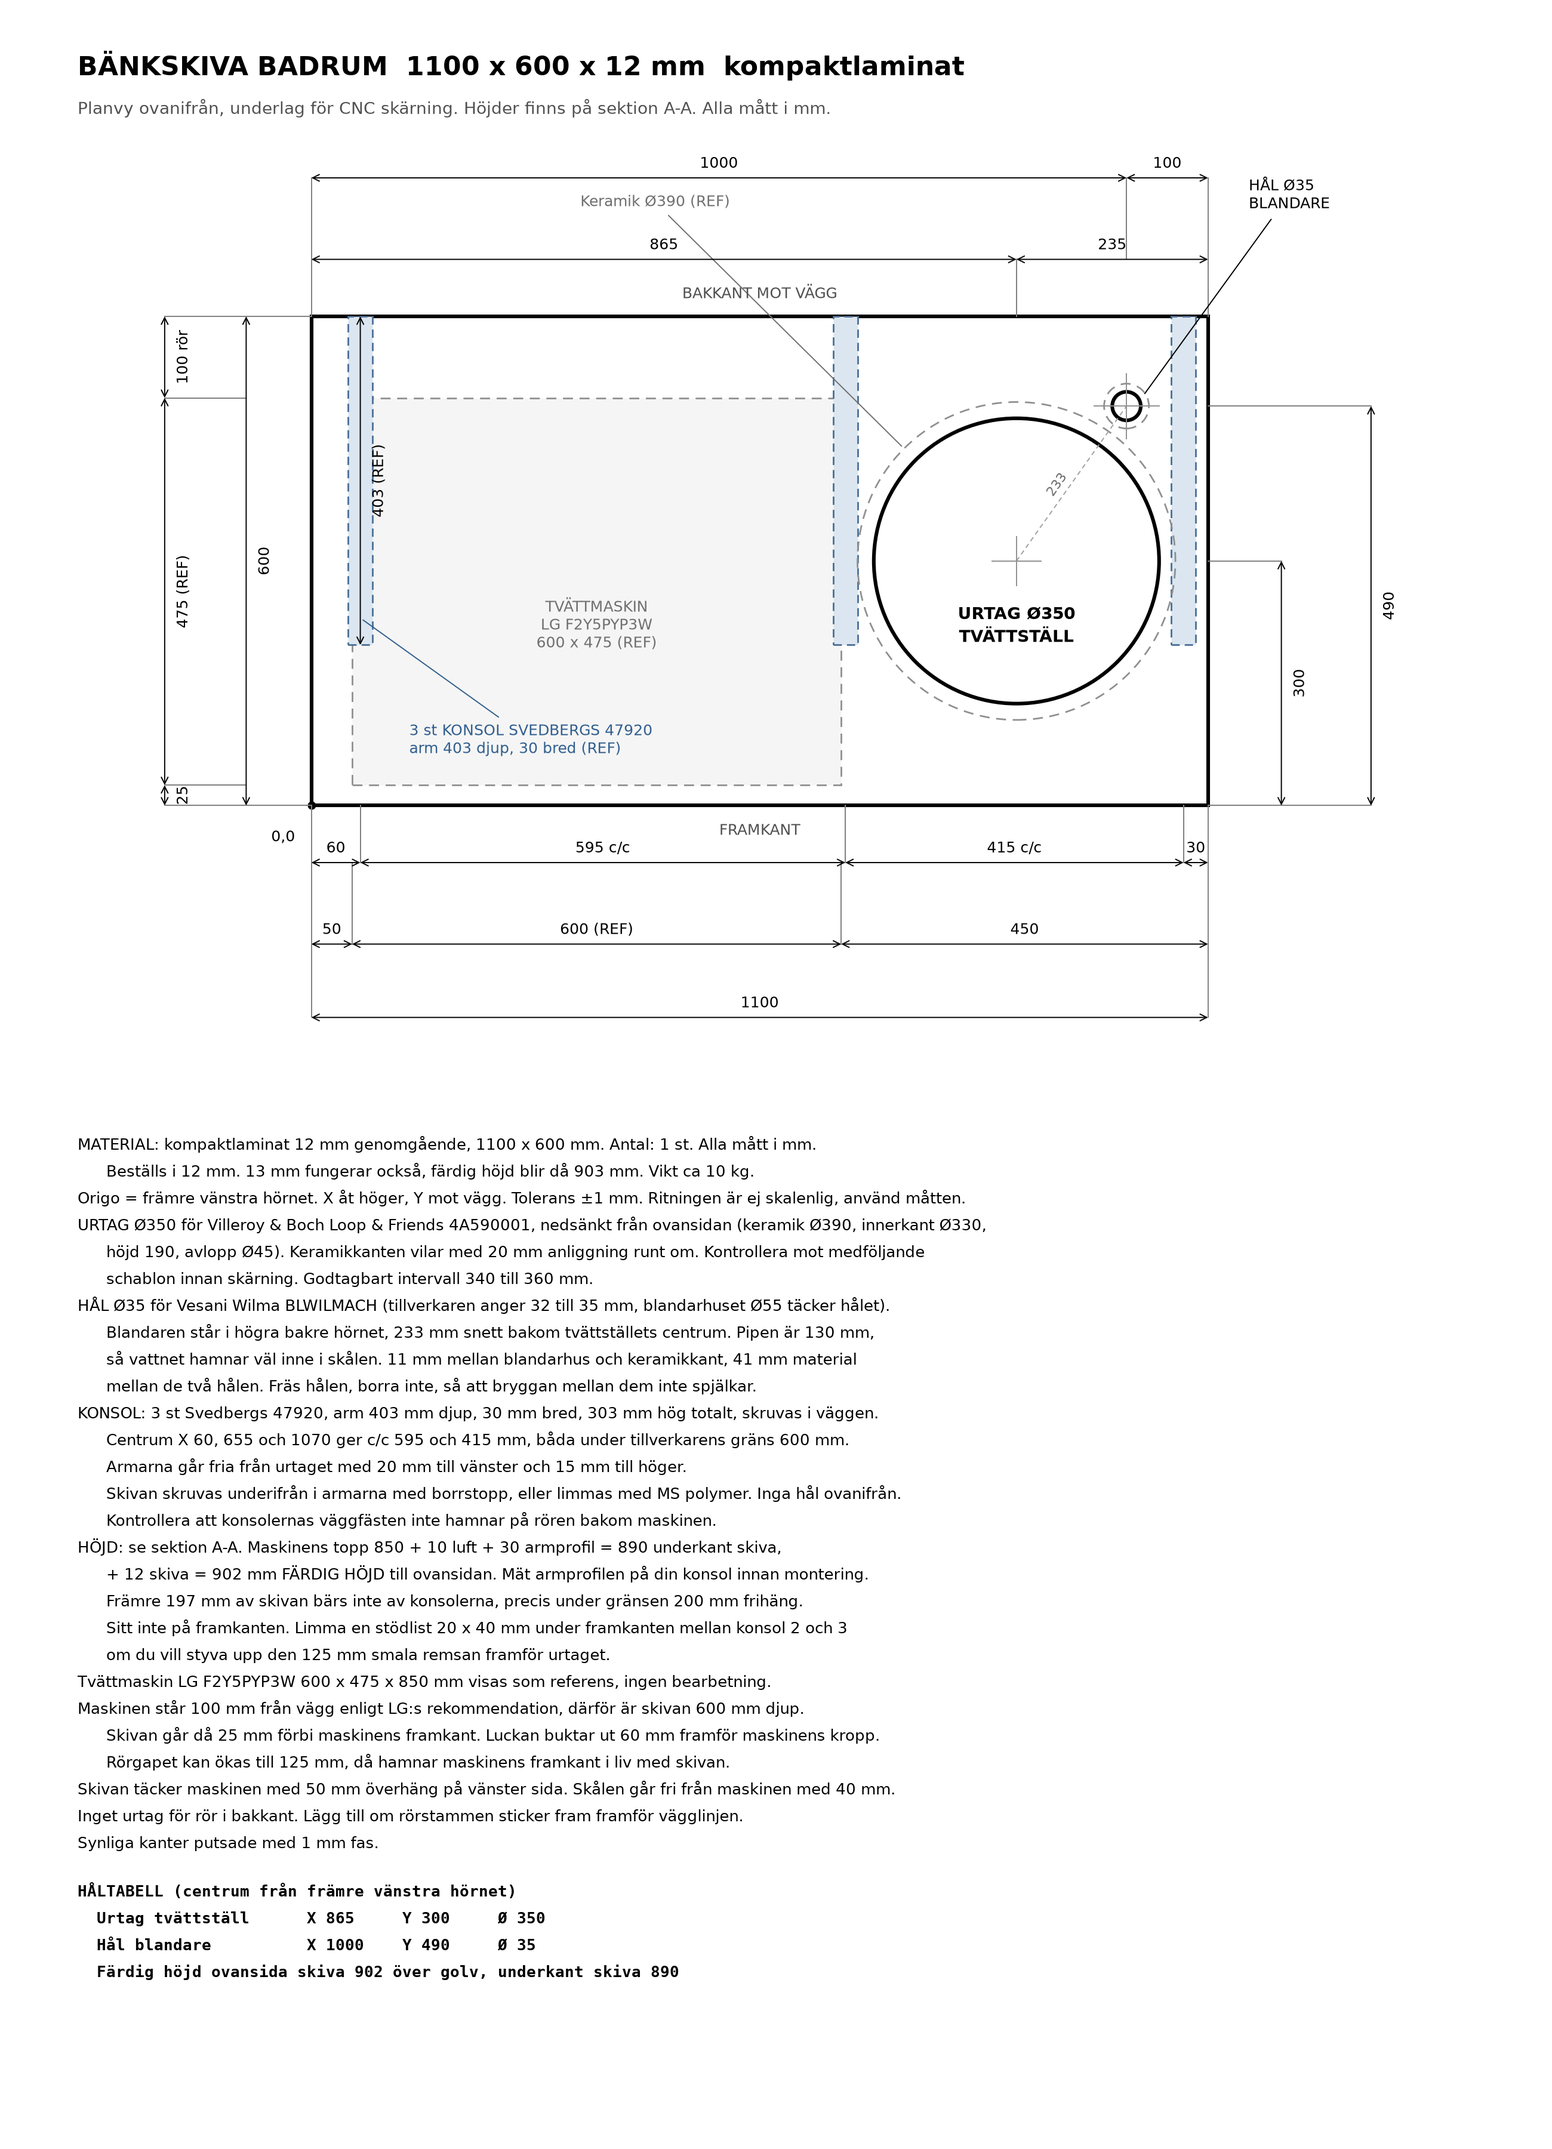
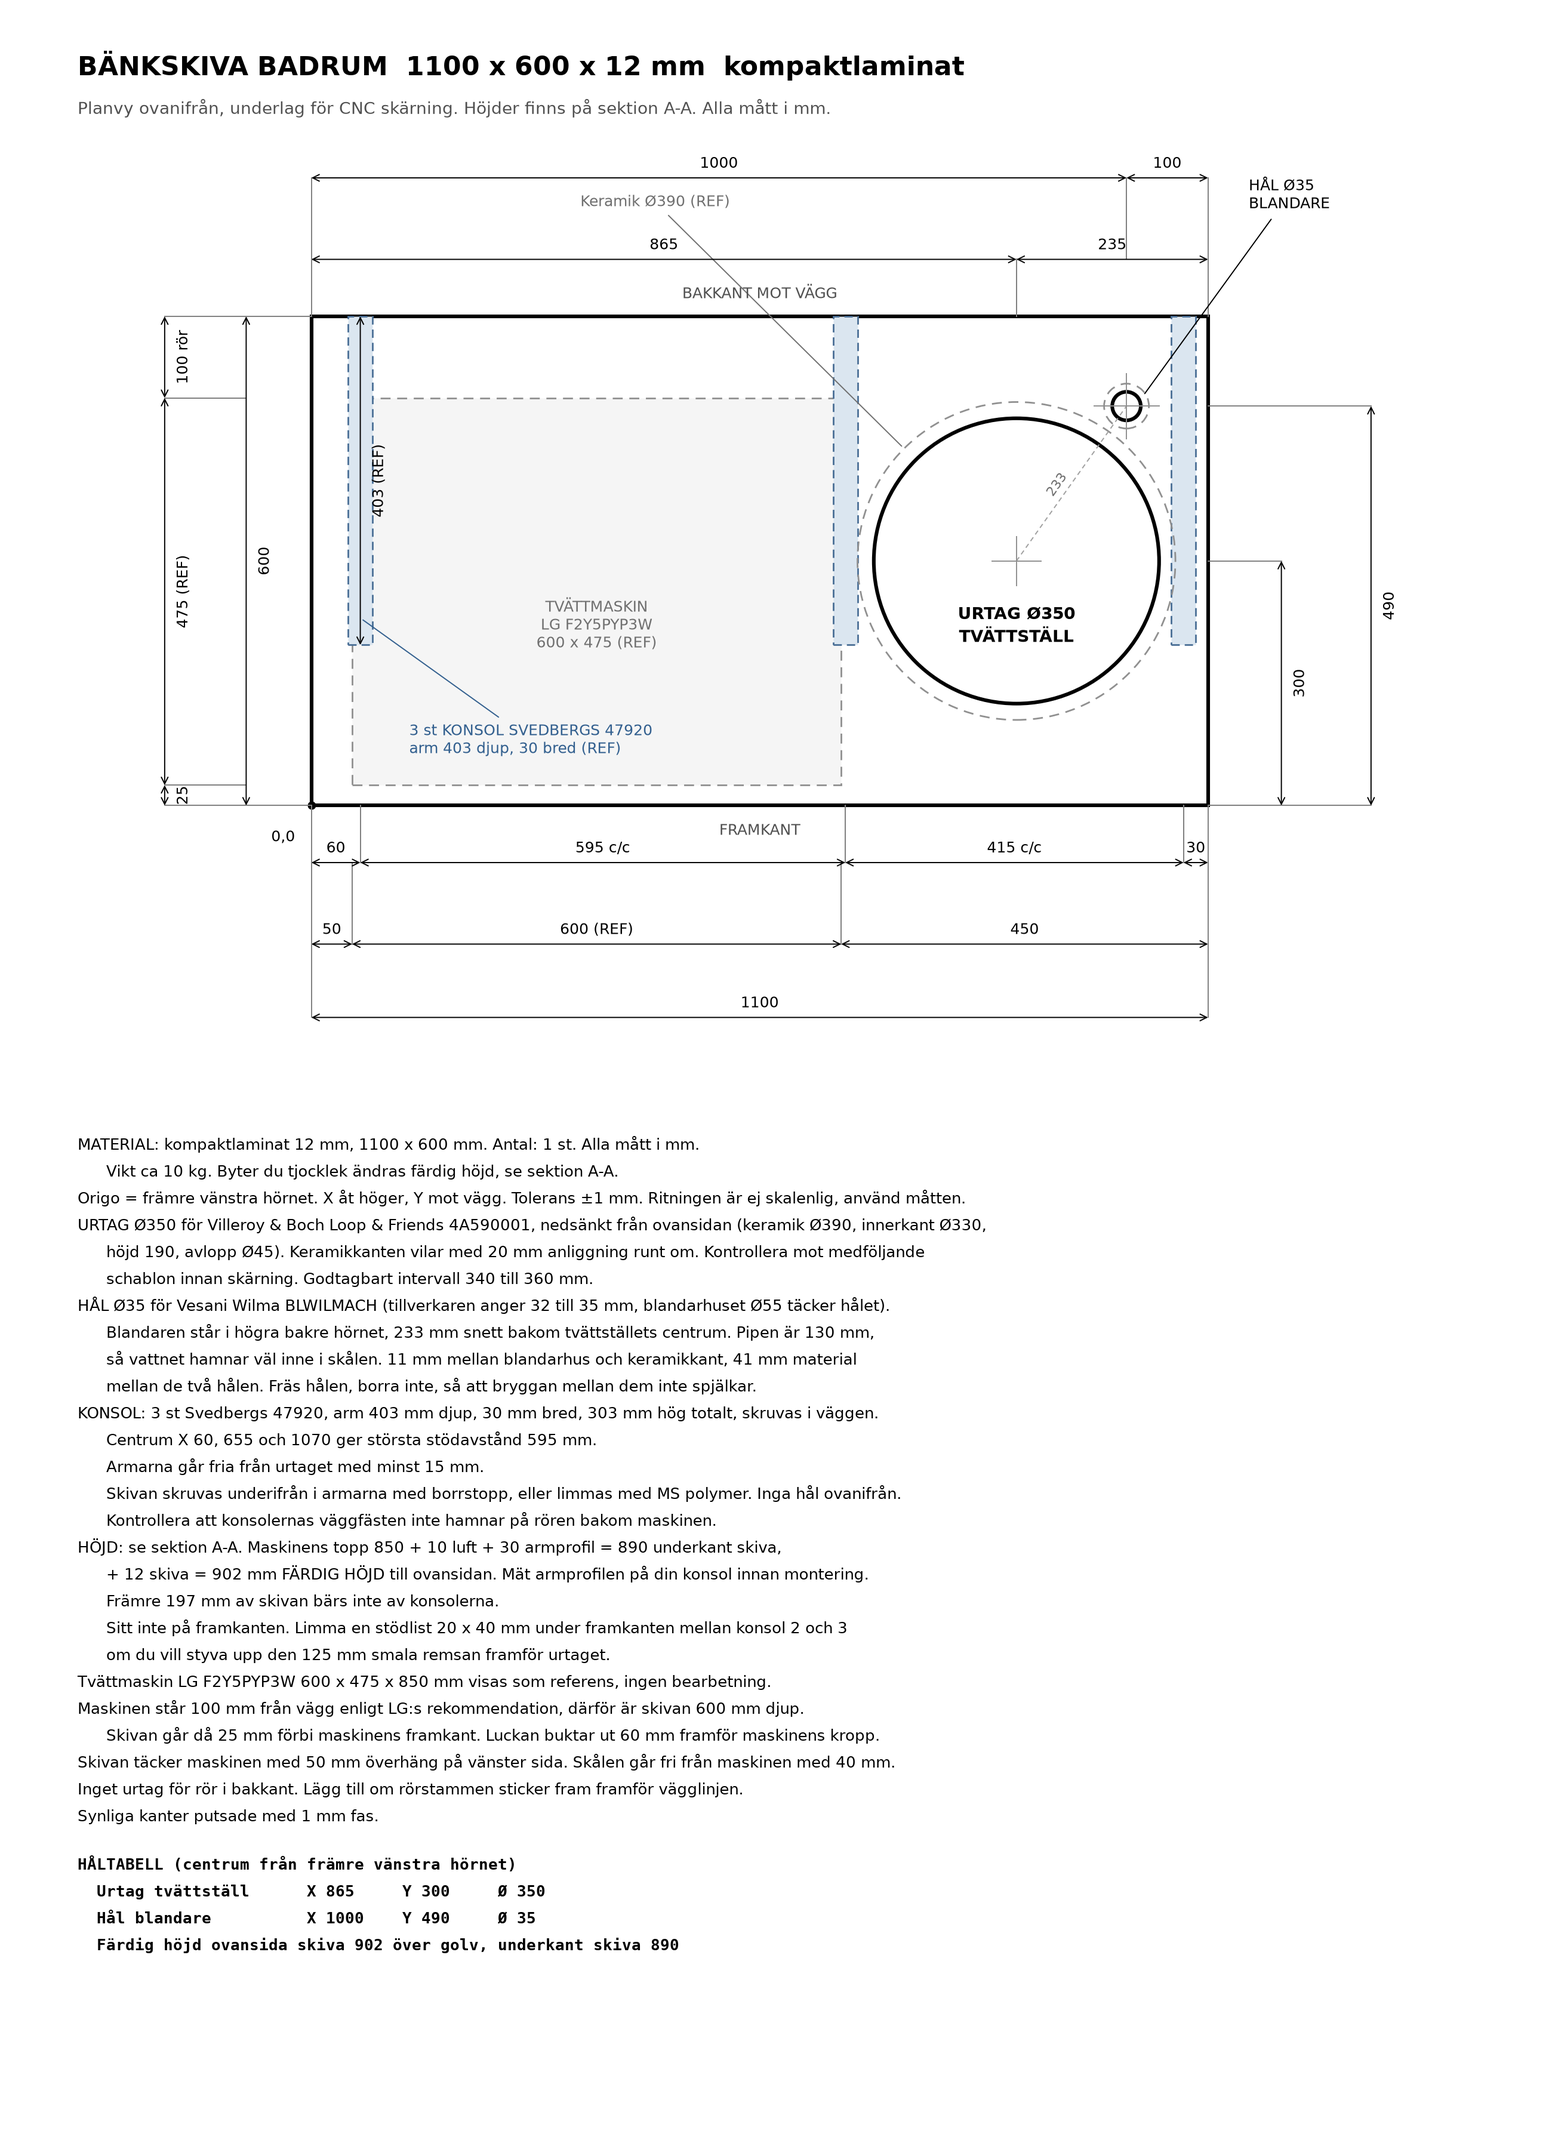
derive drawing text from specs so a material change stays consistent

Changed region(s): [[0.0312, 0.8089, 0.5608, 0.9333], [0.2181, 0.5289, 0.4673, 0.56], [0.2492, 0.6533, 0.4362, 0.6844]]

diff --git a/worktop_drawing/plan_drawing.py b/worktop_drawing/plan_drawing.py
@@ -5,46 +5,60 @@ matplotlib.use("Agg")
 import matplotlib.pyplot as plt
 from matplotlib.patches import Circle, Rectangle
 
+import checks
 import specs as s
 from drawing_helpers import cross, dim_h, dim_v, leader
 
 MACHINE_LINE = 1.0
 
 NOTES = [
-    "MATERIAL: kompaktlaminat 12 mm genomgående, 1100 x 600 mm. Antal: 1 st. Alla mått i mm.",
-    "      Beställs i 12 mm. 13 mm fungerar också, färdig höjd blir då 903 mm. Vikt ca 10 kg.",
+    f"MATERIAL: {s.MATERIAL_NAME} {s.TOP_THICKNESS:g} mm, {s.TOP_WIDTH} x {s.TOP_DEPTH} mm. Antal: 1 st. Alla mått i mm.",
+    f"      Vikt ca {checks.weight():.0f} kg. Byter du tjocklek ändras färdig höjd, se sektion A-A.",
     "Origo = främre vänstra hörnet. X åt höger, Y mot vägg. Tolerans ±1 mm. Ritningen är ej skalenlig, använd måtten.",
     "URTAG Ø350 för Villeroy & Boch Loop & Friends 4A590001, nedsänkt från ovansidan (keramik Ø390, innerkant Ø330,",
     "      höjd 190, avlopp Ø45). Keramikkanten vilar med 20 mm anliggning runt om. Kontrollera mot medföljande",
     "      schablon innan skärning. Godtagbart intervall 340 till 360 mm.",
     "HÅL Ø35 för Vesani Wilma BLWILMACH (tillverkaren anger 32 till 35 mm, blandarhuset Ø55 täcker hålet).",
     "      Blandaren står i högra bakre hörnet, 233 mm snett bakom tvättställets centrum. Pipen är 130 mm,",
-    "      så vattnet hamnar väl inne i skålen. 11 mm mellan blandarhus och keramikkant, 41 mm material",
+    f"      så vattnet hamnar väl inne i skålen. {checks.mixer_body_to_ceramic():.0f} mm mellan blandarhus och keramikkant,"
+    f" {checks.basin_to_mixer_bridge():.0f} mm material",
     "      mellan de två hålen. Fräs hålen, borra inte, så att bryggan mellan dem inte spjälkar.",
-    "KONSOL: 3 st Svedbergs 47920, arm 403 mm djup, 30 mm bred, 303 mm hög totalt, skruvas i väggen.",
-    "      Centrum X 60, 655 och 1070 ger c/c 595 och 415 mm, båda under tillverkarens gräns 600 mm.",
-    "      Armarna går fria från urtaget med 20 mm till vänster och 15 mm till höger.",
+    f"KONSOL: 3 st Svedbergs 47920, arm {s.BRACKET_DEPTH} mm djup, {s.BRACKET_WIDTH} mm bred,"
+    f" {s.BRACKET_TOTAL_HEIGHT} mm hög totalt, skruvas i väggen.",
+    f"      Centrum X {s.BRACKET_CENTERS[0]}, {s.BRACKET_CENTERS[1]} och {s.BRACKET_CENTERS[2]}"
+    f" ger största stödavstånd {max(checks.spans()):.0f} mm.",
+    f"      Armarna går fria från urtaget med minst {checks.bracket_to_basin_gap():.0f} mm.",
     "      Skivan skruvas underifrån i armarna med borrstopp, eller limmas med MS polymer. Inga hål ovanifrån.",
     "      Kontrollera att konsolernas väggfästen inte hamnar på rören bakom maskinen.",
-    "HÖJD: se sektion A-A. Maskinens topp 850 + 10 luft + 30 armprofil = 890 underkant skiva,",
-    "      + 12 skiva = 902 mm FÄRDIG HÖJD till ovansidan. Mät armprofilen på din konsol innan montering.",
-    "      Främre 197 mm av skivan bärs inte av konsolerna, precis under gränsen 200 mm frihäng.",
+    f"HÖJD: se sektion A-A. Maskinens topp {s.MACHINE_HEIGHT} + {s.MACHINE_CLEARANCE} luft"
+    f" + {s.BRACKET_ARM_HEIGHT} armprofil = {s.TOP_UNDERSIDE} underkant skiva,",
+    f"      + {s.TOP_THICKNESS:g} skiva = {s.FINISHED_HEIGHT:g} mm FÄRDIG HÖJD till ovansidan."
+    " Mät armprofilen på din konsol innan montering.",
+    f"      Främre {s.FRONT_OVERHANG} mm av skivan bärs inte av konsolerna.",
     "      Sitt inte på framkanten. Limma en stödlist 20 x 40 mm under framkanten mellan konsol 2 och 3",
-    "      om du vill styva upp den 125 mm smala remsan framför urtaget.",
-    "Tvättmaskin LG F2Y5PYP3W 600 x 475 x 850 mm visas som referens, ingen bearbetning.",
-    "Maskinen står 100 mm från vägg enligt LG:s rekommendation, därför är skivan 600 mm djup.",
-    "      Skivan går då 25 mm förbi maskinens framkant. Luckan buktar ut 60 mm framför maskinens kropp.",
-    "      Rörgapet kan ökas till 125 mm, då hamnar maskinens framkant i liv med skivan.",
+    f"      om du vill styva upp den {s.BASIN_CENTER_Y - s.BASIN_CUTOUT_DIAMETER / 2:.0f} mm smala remsan framför urtaget.",
+    f"Tvättmaskin LG F2Y5PYP3W {s.MACHINE_WIDTH} x {s.MACHINE_DEPTH} x {s.MACHINE_HEIGHT} mm visas som referens, ingen bearbetning.",
+    f"Maskinen står {s.PIPE_GAP} mm från vägg enligt LG:s rekommendation, därför är skivan {s.TOP_DEPTH} mm djup.",
+    f"      Skivan går då {s.MACHINE_FRONT_OFFSET} mm förbi maskinens framkant."
+    f" Luckan buktar ut {s.MACHINE_DOOR_BULGE} mm framför maskinens kropp.",
     "Skivan täcker maskinen med 50 mm överhäng på vänster sida. Skålen går fri från maskinen med 40 mm.",
     "Inget urtag för rör i bakkant. Lägg till om rörstammen sticker fram framför vägglinjen.",
     "Synliga kanter putsade med 1 mm fas.",
 ]
 
+if s.TOP_DENSITY < 1000:
+    NOTES.append(
+        "KÄRNA: spånskiva, ej vattentät. Täta båda hålens kanter och alla kapsnitt med silikon"
+    )
+    NOTES.append(
+        "      eller tätningslack innan tvättstället monteras. Diffusionsspärr under skivan över maskinen."
+    )
+
 HOLE_TABLE = [
     "HÅLTABELL (centrum från främre vänstra hörnet)",
-    "  Urtag tvättställ      X 865     Y 300     Ø 350",
-    "  Hål blandare          X 1000    Y 490     Ø 35",
-    "  Färdig höjd ovansida skiva 902 över golv, underkant skiva 890",
+    f"  Urtag tvättställ      X {s.BASIN_CENTER_X:<8}Y {s.BASIN_CENTER_Y:<8}Ø {s.BASIN_CUTOUT_DIAMETER}",
+    f"  Hål blandare          X {s.MIXER_CENTER_X:<8}Y {s.MIXER_CENTER_Y:<8}Ø {s.MIXER_HOLE_DIAMETER}",
+    f"  Färdig höjd ovansida skiva {s.FINISHED_HEIGHT:g} över golv, underkant skiva {s.TOP_UNDERSIDE:g}",
 ]
 
 
@@ -197,31 +211,31 @@ def draw_labels(ax):
 
 def draw_dimensions(ax):
     b1, b2, b3 = s.BRACKET_CENTERS
-    dim_h(ax, 0, b1, -70, "60", tick_to=0)
-    dim_h(ax, b1, b2, -70, "595 c/c", tick_to=0)
-    dim_h(ax, b2, b3, -70, "415 c/c", tick_to=0)
-    dim_h(ax, b3, s.TOP_WIDTH, -70, "30", tick_to=0)
+    dim_h(ax, 0, b1, -70, f"{b1}", tick_to=0)
+    dim_h(ax, b1, b2, -70, f"{b2 - b1} c/c", tick_to=0)
+    dim_h(ax, b2, b3, -70, f"{b3 - b2} c/c", tick_to=0)
+    dim_h(ax, b3, s.TOP_WIDTH, -70, f"{s.TOP_WIDTH - b3}", tick_to=0)
 
     machine_right = s.MACHINE_LEFT_MARGIN + s.MACHINE_WIDTH
-    dim_h(ax, 0, s.MACHINE_LEFT_MARGIN, -170, "50", tick_to=-70)
-    dim_h(ax, s.MACHINE_LEFT_MARGIN, machine_right, -170, "600 (REF)", tick_to=-70)
-    dim_h(ax, machine_right, s.TOP_WIDTH, -170, "450", tick_to=-70)
-    dim_h(ax, 0, s.TOP_WIDTH, -260, "1100", tick_to=-170)
+    dim_h(ax, 0, s.MACHINE_LEFT_MARGIN, -170, f"{s.MACHINE_LEFT_MARGIN}", tick_to=-70)
+    dim_h(ax, s.MACHINE_LEFT_MARGIN, machine_right, -170, f"{s.MACHINE_WIDTH} (REF)", tick_to=-70)
+    dim_h(ax, machine_right, s.TOP_WIDTH, -170, f"{s.TOP_WIDTH - machine_right}", tick_to=-70)
+    dim_h(ax, 0, s.TOP_WIDTH, -260, f"{s.TOP_WIDTH}", tick_to=-170)
 
-    dim_h(ax, 0, s.BASIN_CENTER_X, 670, "865", tick_to=s.TOP_DEPTH)
-    dim_h(ax, s.BASIN_CENTER_X, s.TOP_WIDTH, 670, "235", tick_to=s.TOP_DEPTH)
-    dim_h(ax, 0, s.MIXER_CENTER_X, 770, "1000", tick_to=670)
-    dim_h(ax, s.MIXER_CENTER_X, s.TOP_WIDTH, 770, "100", tick_to=670)
+    dim_h(ax, 0, s.BASIN_CENTER_X, 670, f"{s.BASIN_CENTER_X}", tick_to=s.TOP_DEPTH)
+    dim_h(ax, s.BASIN_CENTER_X, s.TOP_WIDTH, 670, f"{s.TOP_WIDTH - s.BASIN_CENTER_X}", tick_to=s.TOP_DEPTH)
+    dim_h(ax, 0, s.MIXER_CENTER_X, 770, f"{s.MIXER_CENTER_X}", tick_to=670)
+    dim_h(ax, s.MIXER_CENTER_X, s.TOP_WIDTH, 770, f"{s.TOP_WIDTH - s.MIXER_CENTER_X}", tick_to=670)
 
     machine_back = s.MACHINE_FRONT_OFFSET + s.MACHINE_DEPTH
-    dim_v(ax, 0, s.TOP_DEPTH, -80, "600", tick_to=0)
-    dim_v(ax, 0, s.MACHINE_FRONT_OFFSET, -180, "25", tick_to=-80)
-    dim_v(ax, s.MACHINE_FRONT_OFFSET, machine_back, -180, "475 (REF)", tick_to=-80)
-    dim_v(ax, machine_back, s.TOP_DEPTH, -180, "100 rör", tick_to=-80)
-    dim_v(ax, s.TOP_DEPTH - s.BRACKET_DEPTH, s.TOP_DEPTH, b1, "403 (REF)")
+    dim_v(ax, 0, s.TOP_DEPTH, -80, f"{s.TOP_DEPTH}", tick_to=0)
+    dim_v(ax, 0, s.MACHINE_FRONT_OFFSET, -180, f"{s.MACHINE_FRONT_OFFSET}", tick_to=-80)
+    dim_v(ax, s.MACHINE_FRONT_OFFSET, machine_back, -180, f"{s.MACHINE_DEPTH} (REF)", tick_to=-80)
+    dim_v(ax, machine_back, s.TOP_DEPTH, -180, f"{s.PIPE_GAP} rör", tick_to=-80)
+    dim_v(ax, s.TOP_DEPTH - s.BRACKET_DEPTH, s.TOP_DEPTH, b1, f"{s.BRACKET_DEPTH} (REF)")
 
-    dim_v(ax, 0, s.BASIN_CENTER_Y, 1190, "300", tick_to=s.TOP_WIDTH)
-    dim_v(ax, 0, s.MIXER_CENTER_Y, 1300, "490", tick_to=s.TOP_WIDTH)
+    dim_v(ax, 0, s.BASIN_CENTER_Y, 1190, f"{s.BASIN_CENTER_Y}", tick_to=s.TOP_WIDTH)
+    dim_v(ax, 0, s.MIXER_CENTER_Y, 1300, f"{s.MIXER_CENTER_Y}", tick_to=s.TOP_WIDTH)
 
 
 def build_figure():
@@ -242,7 +256,7 @@ def build_figure():
     fig.text(
         0.05,
         0.965,
-        "BÄNKSKIVA BADRUM  1100 x 600 x 12 mm  kompaktlaminat",
+        f"BÄNKSKIVA BADRUM  {s.TOP_WIDTH} x {s.TOP_DEPTH} x {s.TOP_THICKNESS:g} mm  {s.MATERIAL_NAME}",
         fontsize=16,
         fontweight="bold",
     )

diff --git a/worktop_drawing/elevation_drawing.py b/worktop_drawing/elevation_drawing.py
@@ -13,16 +13,22 @@ PLATE_THICKNESS = 30
 
 NOTES = [
     "HÖJDKEDJA (mått från färdigt golv, sett från vänster sida)",
-    "  Tvättmaskinens topp                                     850",
-    "  Luftspalt över maskinen                                + 10   = 860 underkant konsolarm",
-    "  Konsolarmens profilhöjd (REF, mät på din konsol)        + 30   = 890 underkant skiva",
-    "  Skivans tjocklek                                        + 12   = 902 FÄRDIG HÖJD",
+    f"  Tvättmaskinens topp                                     {s.MACHINE_HEIGHT}",
+    f"  Luftspalt över maskinen                                + {s.MACHINE_CLEARANCE:<5}"
+    f"= {s.ARM_UNDERSIDE} underkant konsolarm",
+    f"  Konsolarmens profilhöjd (REF, mät på din konsol)        + {s.BRACKET_ARM_HEIGHT:<5}"
+    f"= {s.TOP_UNDERSIDE} underkant skiva",
+    f"  Skivans tjocklek                                        + {s.TOP_THICKNESS:<5g}"
+    f"= {s.FINISHED_HEIGHT:g} FÄRDIG HÖJD",
     "",
-    "Färdig höjd 902 mm är ovansidan av skivan, inte underkanten. Standard bänkhöjd är 900 mm,",
-    "så 902 mm ligger rätt. Vill du exakt 900 mm sänker du luftspalten till 8 mm, men behåll",
-    "minst 5 mm så maskinen kan vibrera fritt och gå att lyfta ut.",
-    "Konsolens överkant ligger i liv med skivans underkant. Konsolen är 303 mm hög totalt,",
-    "därför hamnar väggfästena mellan cirka 590 och 890 mm över golvet.",
+    f"Färdig höjd {s.FINISHED_HEIGHT:g} mm är ovansidan av skivan, inte underkanten."
+    " Standard bänkhöjd är 900 mm.",
+    f"Tunnare skiva ger lägre höjd. Med {s.TOP_THICKNESS:g} mm skiva kan du komma ned till"
+    f" {s.MACHINE_HEIGHT + 5 + s.BRACKET_ARM_HEIGHT + s.TOP_THICKNESS:g} mm",
+    "genom att minska luftspalten till 5 mm, men behåll minst 5 mm så maskinen kan vibrera",
+    "fritt och gå att dra ut. Lägre än så går inte, maskinens topp sitter på 850.",
+    f"Konsolens överkant ligger i liv med skivans underkant. Konsolen är {s.BRACKET_TOTAL_HEIGHT} mm hög totalt,",
+    f"därför hamnar väggfästena mellan cirka {s.BRACKET_BOTTOM:g} och {s.TOP_UNDERSIDE:g} mm över golvet.",
     "Alla infästningar i våtzon 1 och 2 ska tätas mot väggens tätskikt enligt Säker Vatteninstallation.",
     "Skivan skruvas underifrån i armarna med kort skruv och borrstopp, eller limmas med MS polymer.",
     "Borra aldrig igenom skivan ovanifrån.",
@@ -118,13 +124,13 @@ def draw_labels(ax):
         ax,
         (250, s.TOP_UNDERSIDE + s.TOP_THICKNESS / 2),
         (-190, 980),
-        "BÄNKSKIVA 12 mm kompaktlaminat",
+        f"BÄNKSKIVA {s.TOP_THICKNESS:g} mm {s.MATERIAL_NAME}",
     )
     leader(
         ax,
         (400, s.ARM_UNDERSIDE + s.BRACKET_ARM_HEIGHT / 2),
         (-190, 700),
-        "KONSOL SVEDBERGS 47920\narm 403 djup, 30 bred (REF)",
+        f"KONSOL SVEDBERGS 47920\narm {s.BRACKET_DEPTH} djup, {s.BRACKET_WIDTH} bred (REF)",
         color="#33608f",
     )
     ax.text(
@@ -139,17 +145,17 @@ def draw_labels(ax):
 
 
 def draw_dimensions(ax):
-    dim_v(ax, 0, s.MACHINE_HEIGHT, 460, "850 (REF)")
-    dim_v(ax, 0, s.FINISHED_HEIGHT, -60, "902 FÄRDIG HÖJD", tick_to=0)
+    dim_v(ax, 0, s.MACHINE_HEIGHT, 460, f"{s.MACHINE_HEIGHT} (REF)")
+    dim_v(ax, 0, s.FINISHED_HEIGHT, -60, f"{s.FINISHED_HEIGHT:g} FÄRDIG HÖJD", tick_to=0)
 
-    dim_v(ax, s.BRACKET_BOTTOM, s.TOP_UNDERSIDE, 620, "303 (REF)", tick_to=WALL_X)
-    dim_v(ax, s.MACHINE_HEIGHT, s.ARM_UNDERSIDE, 670, "10 luft", tick_to=WALL_X)
-    dim_v(ax, s.ARM_UNDERSIDE, s.TOP_UNDERSIDE, 720, "30 arm", tick_to=WALL_X)
-    dim_v(ax, s.TOP_UNDERSIDE, s.FINISHED_HEIGHT, 770, "12 skiva", tick_to=WALL_X)
+    dim_v(ax, s.BRACKET_BOTTOM, s.TOP_UNDERSIDE, 620, f"{s.BRACKET_TOTAL_HEIGHT} (REF)", tick_to=WALL_X)
+    dim_v(ax, s.MACHINE_HEIGHT, s.ARM_UNDERSIDE, 670, f"{s.MACHINE_CLEARANCE} luft", tick_to=WALL_X)
+    dim_v(ax, s.ARM_UNDERSIDE, s.TOP_UNDERSIDE, 720, f"{s.BRACKET_ARM_HEIGHT} arm", tick_to=WALL_X)
+    dim_v(ax, s.TOP_UNDERSIDE, s.FINISHED_HEIGHT, 770, f"{s.TOP_THICKNESS:g} skiva", tick_to=WALL_X)
 
-    dim_h(ax, 0, s.FRONT_OVERHANG, -80, "197", tick_to=s.ARM_UNDERSIDE)
-    dim_h(ax, s.FRONT_OVERHANG, WALL_X, -80, "403", tick_to=s.ARM_UNDERSIDE)
-    dim_h(ax, 0, WALL_X, -180, "600", tick_to=-80)
+    dim_h(ax, 0, s.FRONT_OVERHANG, -80, f"{s.FRONT_OVERHANG}", tick_to=s.ARM_UNDERSIDE)
+    dim_h(ax, s.FRONT_OVERHANG, WALL_X, -80, f"{s.BRACKET_DEPTH}", tick_to=s.ARM_UNDERSIDE)
+    dim_h(ax, 0, WALL_X, -180, f"{s.TOP_DEPTH}", tick_to=-80)
 
 
 def build_figure():

diff --git a/worktop_drawing/specs.py b/worktop_drawing/specs.py
@@ -1,3 +1,5 @@
+MATERIAL_NAME = "kompaktlaminat"
+
 TOP_WIDTH = 1100
 TOP_DEPTH = 600
 TOP_THICKNESS = 12
